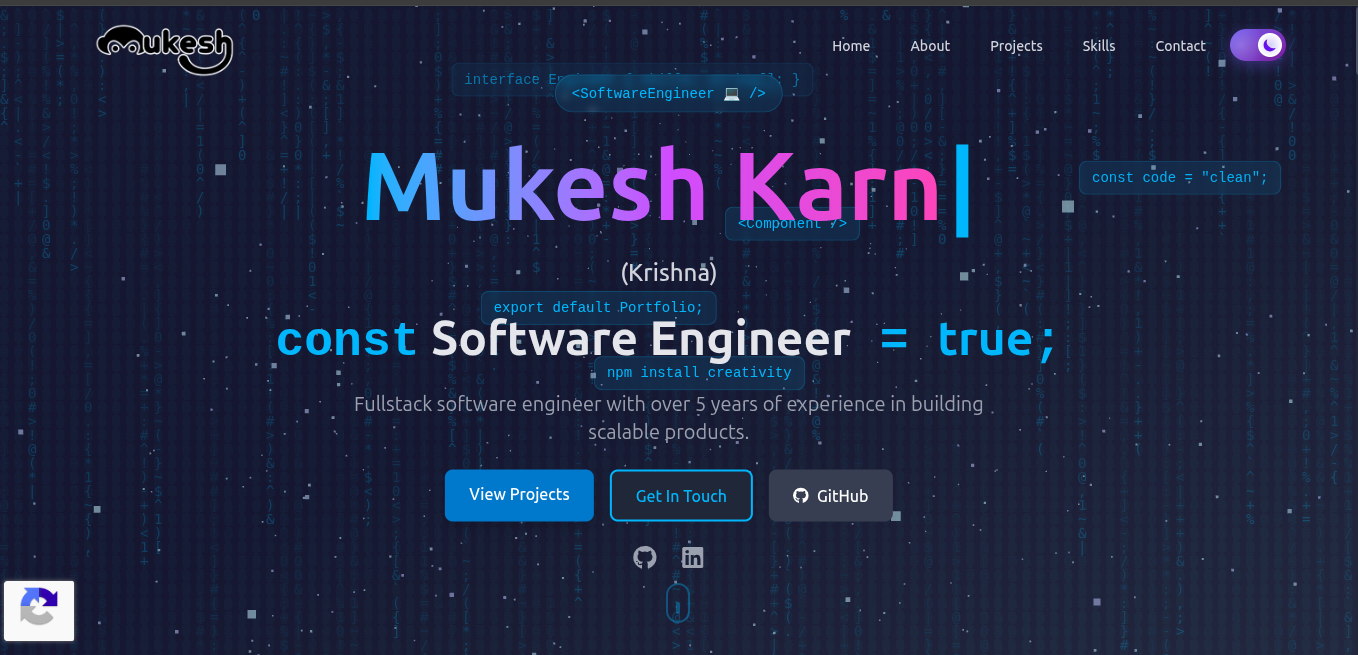
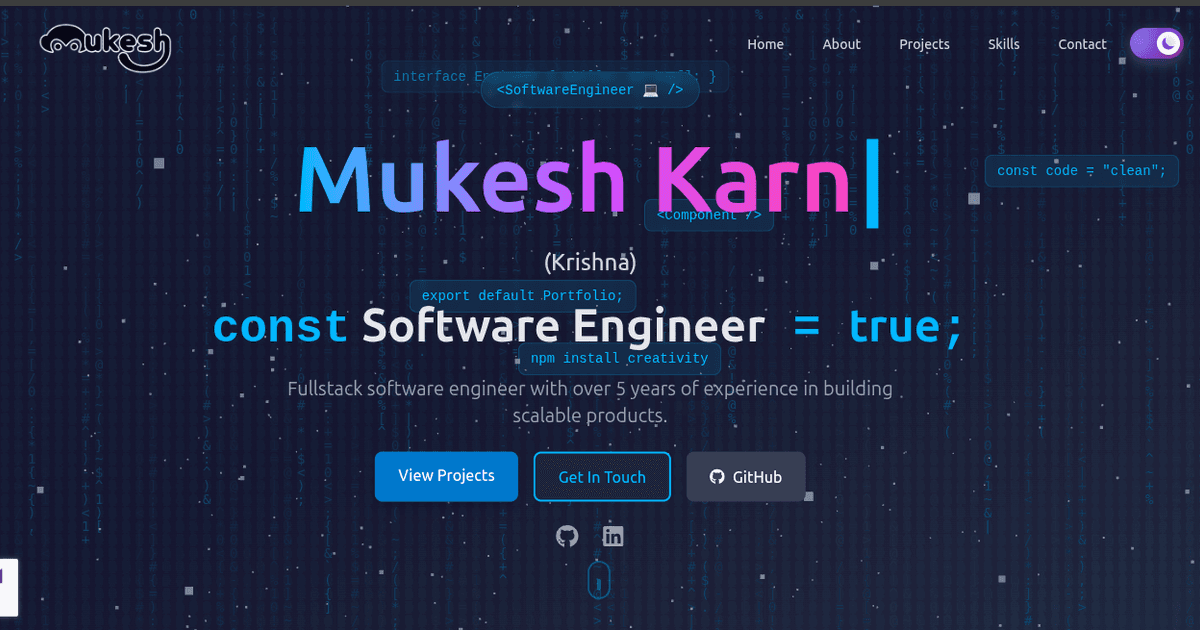
feat: implement dynamic navbar sections and improve hash-based scroll navigation with state synchronization.

diff --git a/frontend/src/components/Navbar.tsx b/frontend/src/components/Navbar.tsx
@@ -12,12 +12,36 @@ const Navbar = () => {
   const [activeSection, setActiveSection] = useState('');
   const [pendingScroll, setPendingScroll] = useState<string | null>(null);
   const { isAuthenticated } = useAuth();
-  const { config: homepageConfig } = useHomepageConfig();
+  const { config: homepageConfig, loading: configLoading } = useHomepageConfig();
   const location = useLocation();
   const navigate = useNavigate();
 
   // Get logo from config or use default
   const logoUrl = homepageConfig?.branding?.logo || '/logo.png';
+
+  // Generate dynamic navLinks from homepageConfig
+  const navLinks = (homepageConfig?.order || ['hero', 'about', 'projects', 'skills', 'contact'])
+    .filter(sectionKey => {
+      // Keep section if it doesn't exist in config (fallback) or if it is explicitly enabled
+      const sectionConfig = homepageConfig?.sections?.[sectionKey as keyof typeof homepageConfig.sections];
+      return !sectionConfig || sectionConfig.enabled !== false;
+    })
+    .map(sectionKey => {
+      const isHero = sectionKey === 'hero';
+      const id = isHero ? 'home' : sectionKey;
+      const defaultNames: Record<string, string> = {
+        hero: 'Home',
+        about: 'About',
+        projects: 'Projects',
+        skills: 'Skills',
+        contact: 'Contact'
+      };
+      return {
+        name: defaultNames[sectionKey] || sectionKey.charAt(0).toUpperCase() + sectionKey.slice(1),
+        href: `/#${id}`,
+        id
+      };
+    });
 
   useEffect(() => {
     const handleScroll = () => {
@@ -30,15 +54,27 @@ const Navbar = () => {
           return;
         }
 
-        // Detect active section based on scroll position
-        const sections = ['home', 'about', 'projects', 'skills', 'contact'];
-        const scrollPosition = window.scrollY + 100;
+        // Detect active section based on scroll position using dynamic navLinks
+        const scrollPosition = window.scrollY + 150; // Offset for navbar
+        const sectionIds = navLinks.map(link => link.id);
+        
+        let currentSection = '';
 
-        for (let i = sections.length - 1; i >= 0; i--) {
-          const section = document.getElementById(sections[i]);
+        for (let i = sectionIds.length - 1; i >= 0; i--) {
+          const section = document.getElementById(sectionIds[i]);
           if (section && section.offsetTop <= scrollPosition) {
-            setActiveSection(sections[i]);
+            currentSection = sectionIds[i];
             break;
+          }
+        }
+
+        if (currentSection && currentSection !== activeSection) {
+          setActiveSection(currentSection);
+          // Update URL hash without causing a jump or adding to browser history
+          if (currentSection === 'home') {
+             window.history.replaceState(null, '', '/');
+          } else {
+             window.history.replaceState(null, '', `/#${currentSection}`);
           }
         }
       } catch (error) {
@@ -56,7 +92,7 @@ const Navbar = () => {
       clearTimeout(timeoutId);
       window.removeEventListener('scroll', handleScroll);
     };
-  }, [location.pathname]);
+  }, [location.pathname, navLinks, activeSection]);
 
   // Reset active section when route changes
   useEffect(() => {
@@ -65,45 +101,71 @@ const Navbar = () => {
     }
   }, [location]);
 
-  // Handle pending scroll after navigation
+  const scrollToSectionWithRetry = (id: string, maxRetries = 40) => {
+    let retries = 0;
+
+    const attemptScroll = () => {
+      const element = document.getElementById(id);
+      if (element) {
+        const navbarHeight = window.innerWidth < 768 ? 64 : 80; // h-16 (64px) on mobile, h-20 (80px) on desktop
+        const elementPosition = element.getBoundingClientRect().top;
+        const offsetPosition = elementPosition + window.scrollY - navbarHeight;
+
+        window.scrollTo({
+          top: offsetPosition,
+          behavior: 'smooth'
+        });
+      } else if (retries < maxRetries) {
+        retries++;
+        setTimeout(attemptScroll, 100); // Check every 100ms, up to 4 seconds
+      }
+    };
+
+    attemptScroll();
+  };
+
+  // Scroll to hash on initial load or refresh
   useEffect(() => {
-    if (pendingScroll && location.pathname === '/') {
-      // Wait for DOM to be ready
+    if (location.pathname === '/' && location.hash && !configLoading) {
+      const id = location.hash.substring(1);
       const timeoutId = setTimeout(() => {
-        const element = document.getElementById(pendingScroll);
-        if (element) {
-          element.scrollIntoView({ behavior: 'smooth', block: 'start' });
-          setPendingScroll(null);
-        }
-      }, 150);
+        scrollToSectionWithRetry(id);
+      }, 100); // Tiny delay to allow DOM to render after loading finishes
       return () => clearTimeout(timeoutId);
     }
-  }, [location.pathname, pendingScroll]);
+  }, [location.pathname, location.hash, configLoading]);
 
-  const navLinks = [
-    { name: 'Home', href: '/#home', id: 'home' },
-    { name: 'About', href: '/#about', id: 'about' },
-    { name: 'Projects', href: '/#projects', id: 'projects' },
-    { name: 'Skills', href: '/#skills', id: 'skills' },
-    { name: 'Contact', href: '/#contact', id: 'contact' },
-  ];
+  // Handle pending scroll after navigation
+  useEffect(() => {
+    if (pendingScroll && location.pathname === '/' && !configLoading) {
+      const timeoutId = setTimeout(() => {
+        scrollToSectionWithRetry(pendingScroll);
+        setPendingScroll(null);
+      }, 100);
+      return () => clearTimeout(timeoutId);
+    }
+  }, [location.pathname, pendingScroll, configLoading]);
+
 
   const handleNavClick = (href: string) => {
-    setIsOpen(false);
     if (href.startsWith('/#')) {
       const id = href.substring(2);
 
-      // If we're not on the home page, navigate to home first and set pending scroll
       if (location.pathname !== '/') {
+        // Navigate to the homepage with the hash
+        navigate(href);
         setPendingScroll(id);
-        navigate('/');
+        setIsOpen(false);
       } else {
-        // We're already on home page, just scroll to section
-        const element = document.getElementById(id);
-        if (element) {
-          element.scrollIntoView({ behavior: 'smooth', block: 'start' });
-        }
+        // Update URL hash directly to bypass React Router's scroll-reset bug on same-page hash changes
+        window.history.pushState(null, '', href);
+        scrollToSectionWithRetry(id);
+        // Delay closing menu strictly to prevent scroll cancellation on mobile browsers
+        setTimeout(() => setIsOpen(false), 400);
       }
+    } else {
+      navigate(href);
+      setIsOpen(false);
     }
   };
 

diff --git a/frontend/index.html b/frontend/index.html
@@ -27,17 +27,6 @@
   <!-- Google Search Console -->
   <meta name="google-site-verification" content="c2UeZrL_6L43inc2K4g5VJhEr02rx7ifI-zZ8w9nmko" />
 
-  <!-- Primary Meta Tags -->
-  <meta name="title" content="Mukesh Karn (Krishna) | Software Engineer" />
-  <meta name="description"
-    content="Mukesh Karn (Krishna) - The best software engineer and full-stack developer specializing in modern web technologies. Experienced in React, Node.js, TypeScript, and cloud architecture." />
-  <meta name="keywords"
-    content="Mukesh, Mukesh Karn, Mukesh Karn Krishna, Software Engineer, Best software engineer, full-stack developer, portfolio, web development, React developer, Node.js developer, TypeScript, JavaScript, MongoDB, Express.js" />
-  <meta name="author" content="Mukesh Karn (Krishna)" />
-  <meta name="robots" content="index, follow, max-image-preview:large, max-snippet:-1, max-video-preview:-1" />
-  <meta name="googlebot" content="index, follow" />
-  <meta name="language" content="English" />
-  <link rel="canonical" href="https://mukeshkarn.com/" />
 
   <!-- Open Graph / Facebook -->
   <meta property="og:type" content="website" />
@@ -45,7 +34,7 @@
   <meta property="og:title" content="Mukesh Karn (Krishna) | Software Engineer" />
   <meta property="og:description"
     content="Mukesh Karn (Krishna) - The best software engineer and full-stack developer specializing in modern web technologies. Experienced in React, Node.js, TypeScript, and cloud architecture." />
-  <meta property="og:image" content="https://mukeshkarn.com/og-preview.png" />
+  <meta property="og:image" content="https://mukeshkarn.com/og-preview.png?v=20260423" />
   <meta property="og:image:type" content="image/png" />
   <meta property="og:image:width" content="1200" />
   <meta property="og:image:height" content="630" />
@@ -59,7 +48,7 @@
   <meta name="twitter:title" content="Mukesh Karn (Krishna) | Software Engineer" />
   <meta name="twitter:description"
     content="Mukesh Karn (Krishna) - The best software engineer and full-stack developer specializing in modern web technologies. Experienced in React, Node.js, TypeScript, and cloud architecture." />
-  <meta name="twitter:image" content="https://mukeshkarn.com/og-preview.png" />
+  <meta name="twitter:image" content="https://mukeshkarn.com/og-preview.png?v=20260423" />
   <meta name="twitter:image:alt" content="Mukesh Karn (Krishna) | Software Engineer" />
   <meta name="twitter:creator" content="@mukeshkarn" />
 

diff --git a/frontend/src/components/ScrollToTop.tsx b/frontend/src/components/ScrollToTop.tsx
@@ -2,11 +2,14 @@ import { useEffect } from 'react';
 import { useLocation } from 'react-router-dom';
 
 const ScrollToTop = () => {
-  const { pathname } = useLocation();
+  const { pathname, hash } = useLocation();
 
   useEffect(() => {
-    window.scrollTo(0, 0);
-  }, [pathname]);
+    // Only scroll to top if there is no hash
+    if (!hash) {
+      window.scrollTo(0, 0);
+    }
+  }, [pathname, hash]);
 
   return null;
 };
